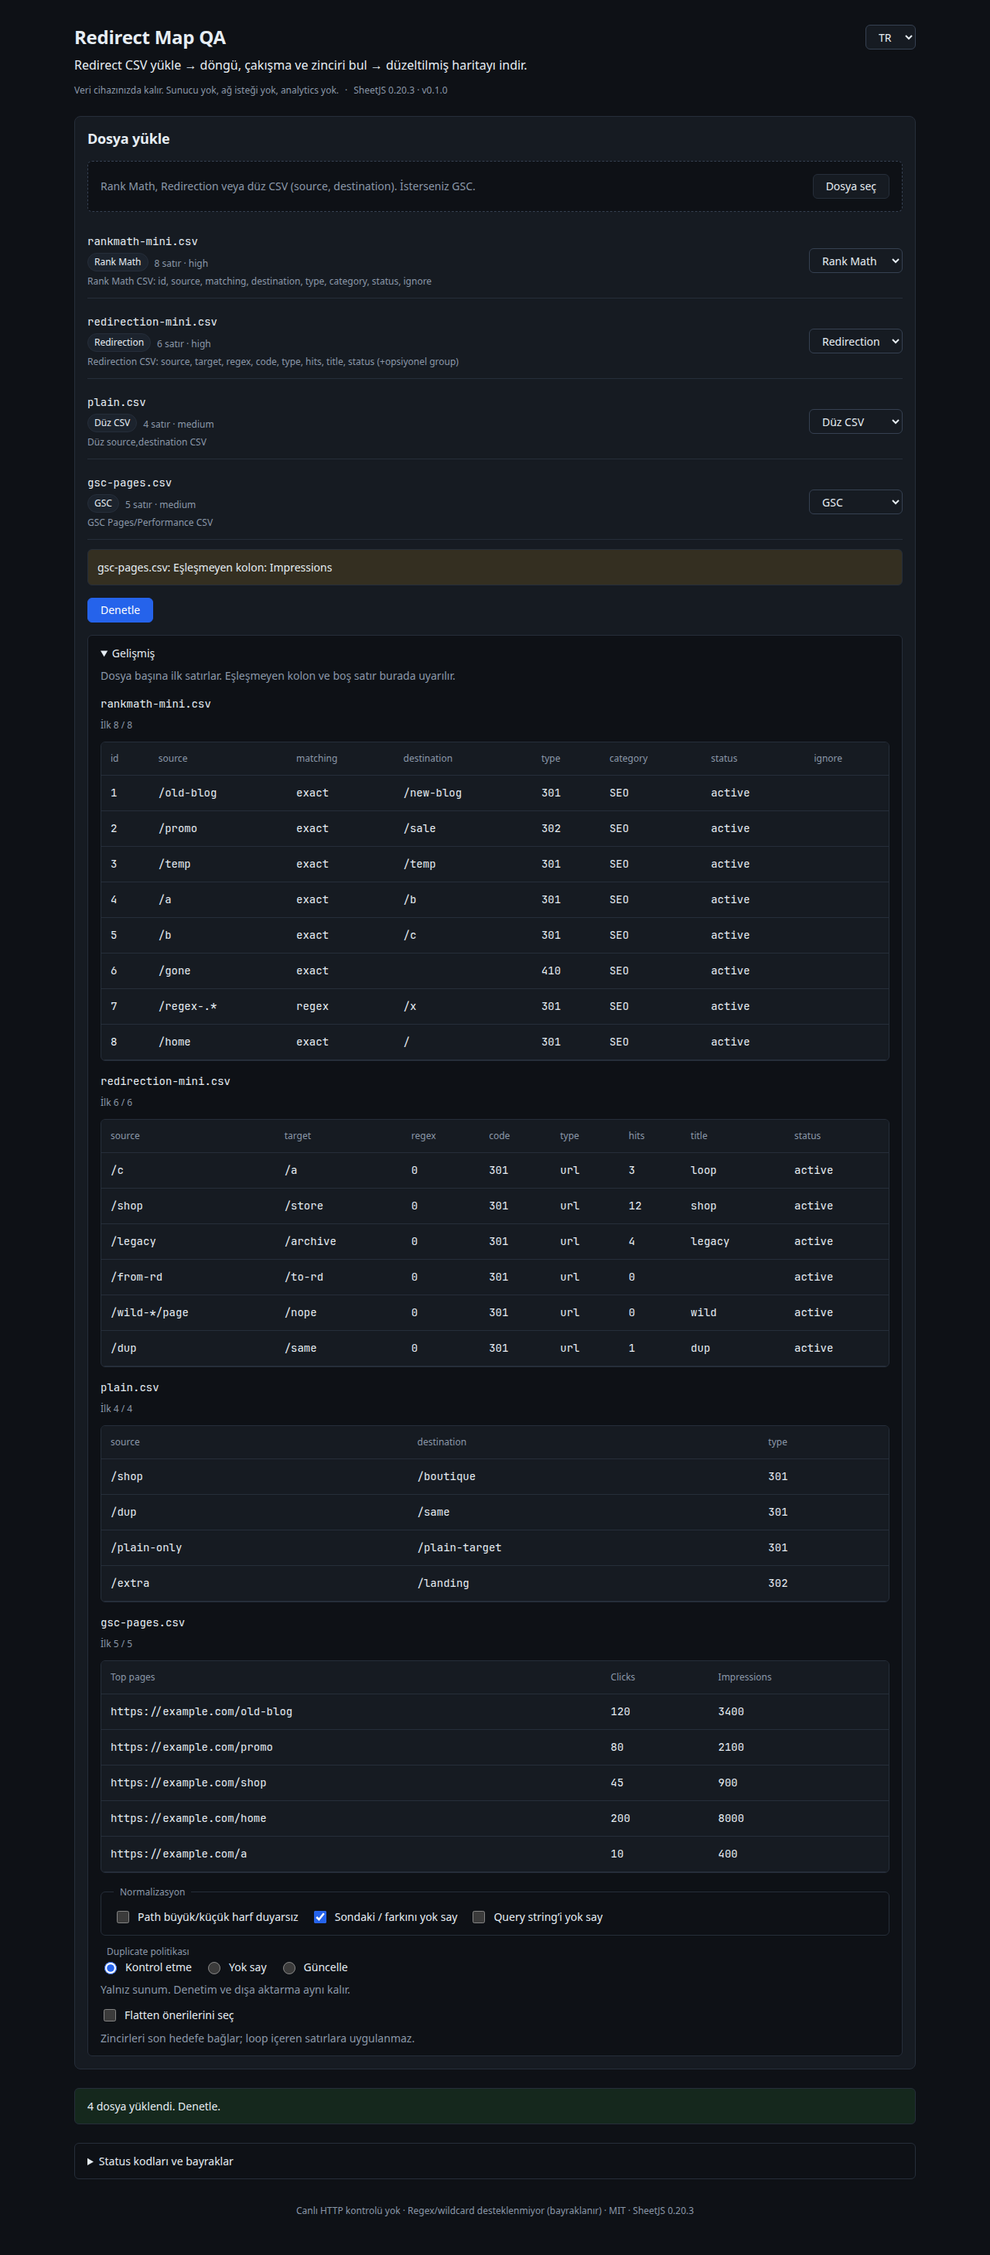
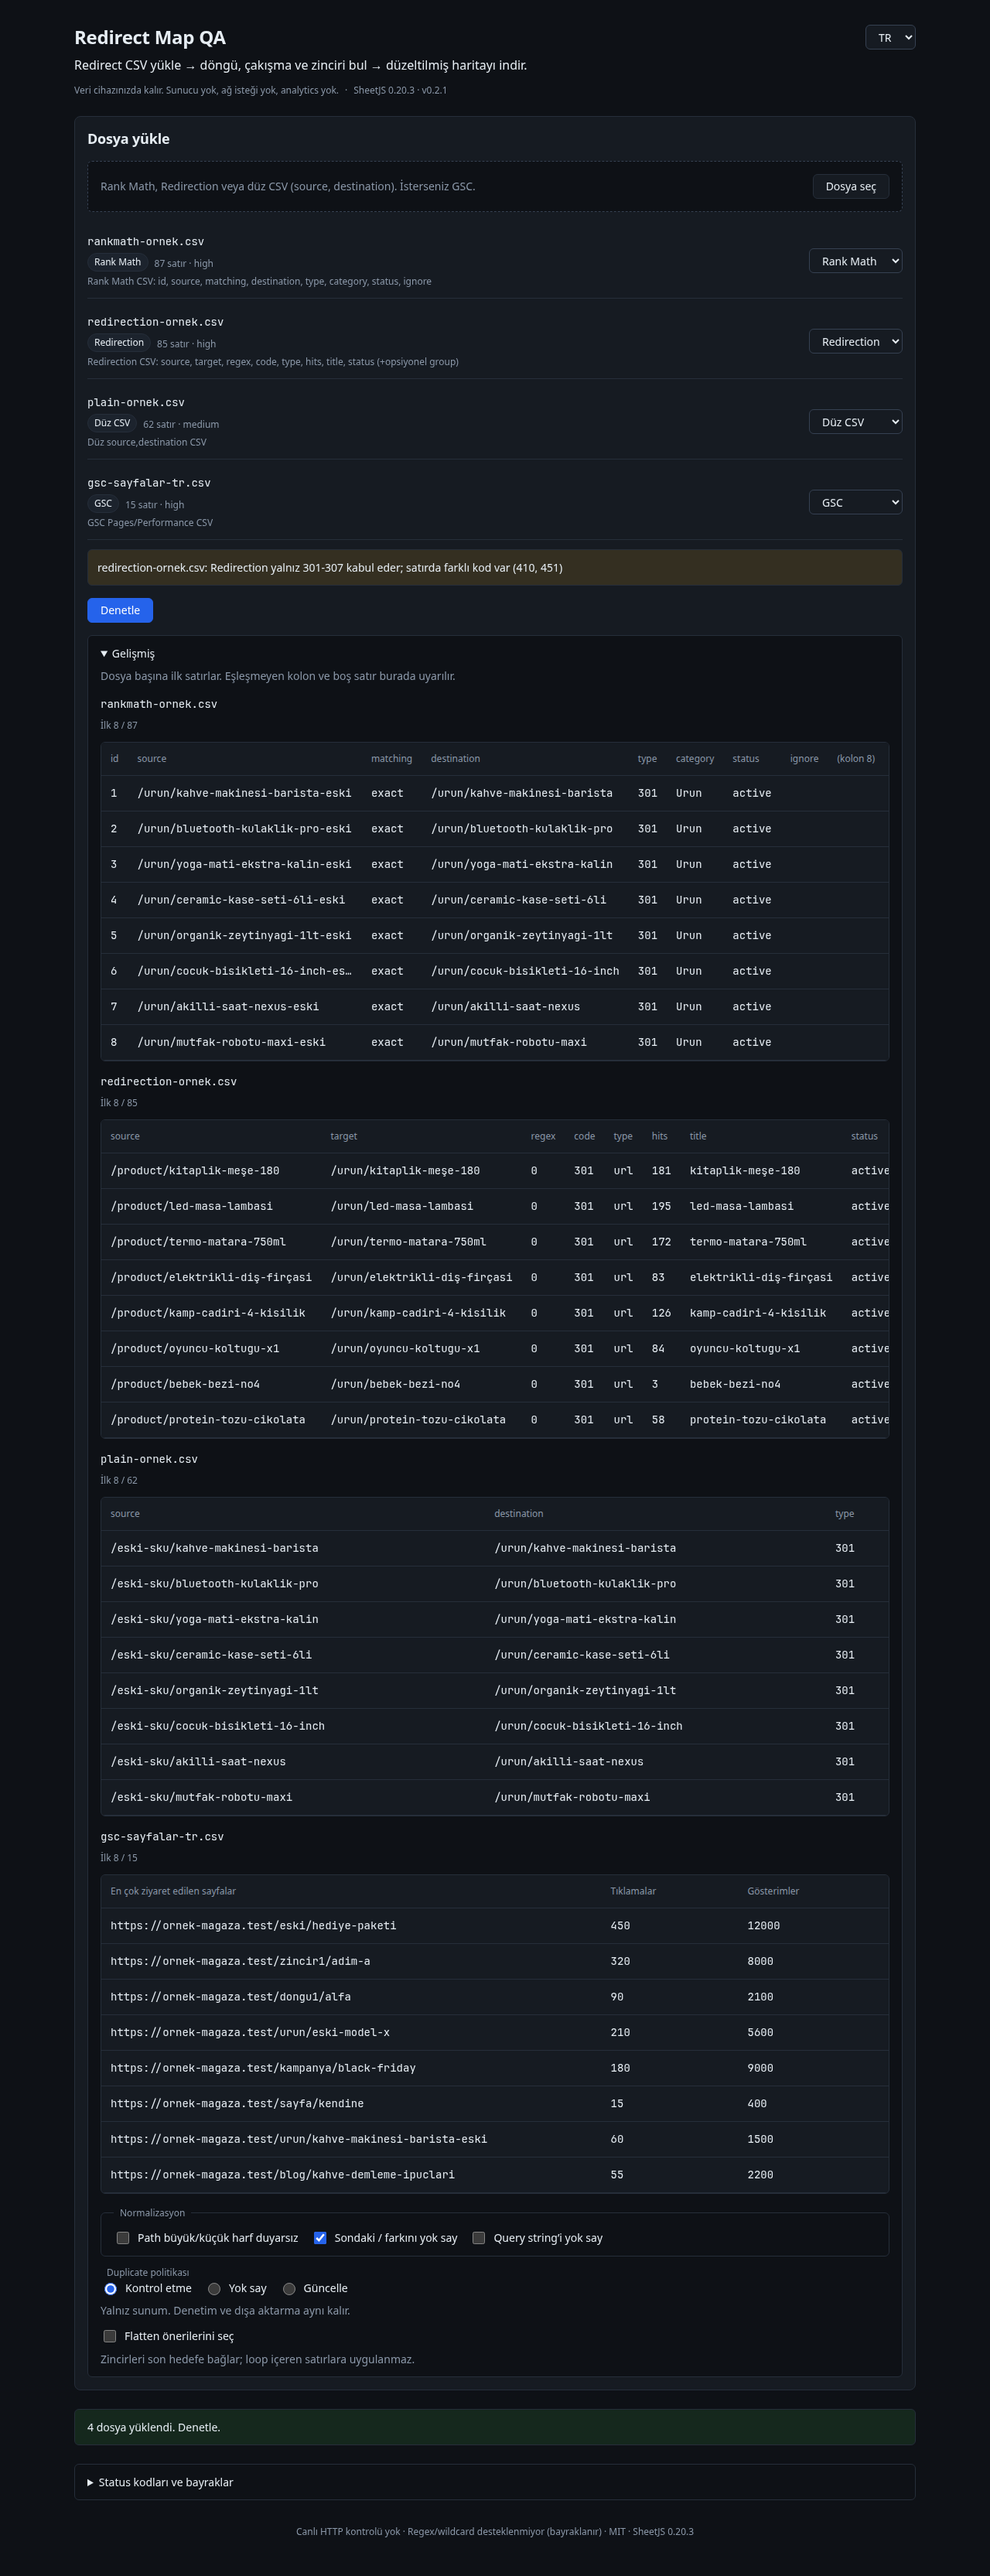
docs: refresh README screenshots for v0.2.1
Retake the English and Turkish README screenshots on the current UI
and link the MIT license line to LICENSE.

diff --git a/README.md b/README.md
@@ -8,7 +8,7 @@ Merge Rank Math, Redirection, and plain `source,destination` CSV/XLSX exports **
 
 **Your data stays on your device.** No server, no OAuth, no analytics, and no live HTTP check or crawl.
 
-License: MIT. Copyright: liarzpl.
+License: [MIT](LICENSE). Copyright: liarzpl.
 
 Version 0.2.1. The page shows this version from package.json at build time.
 
